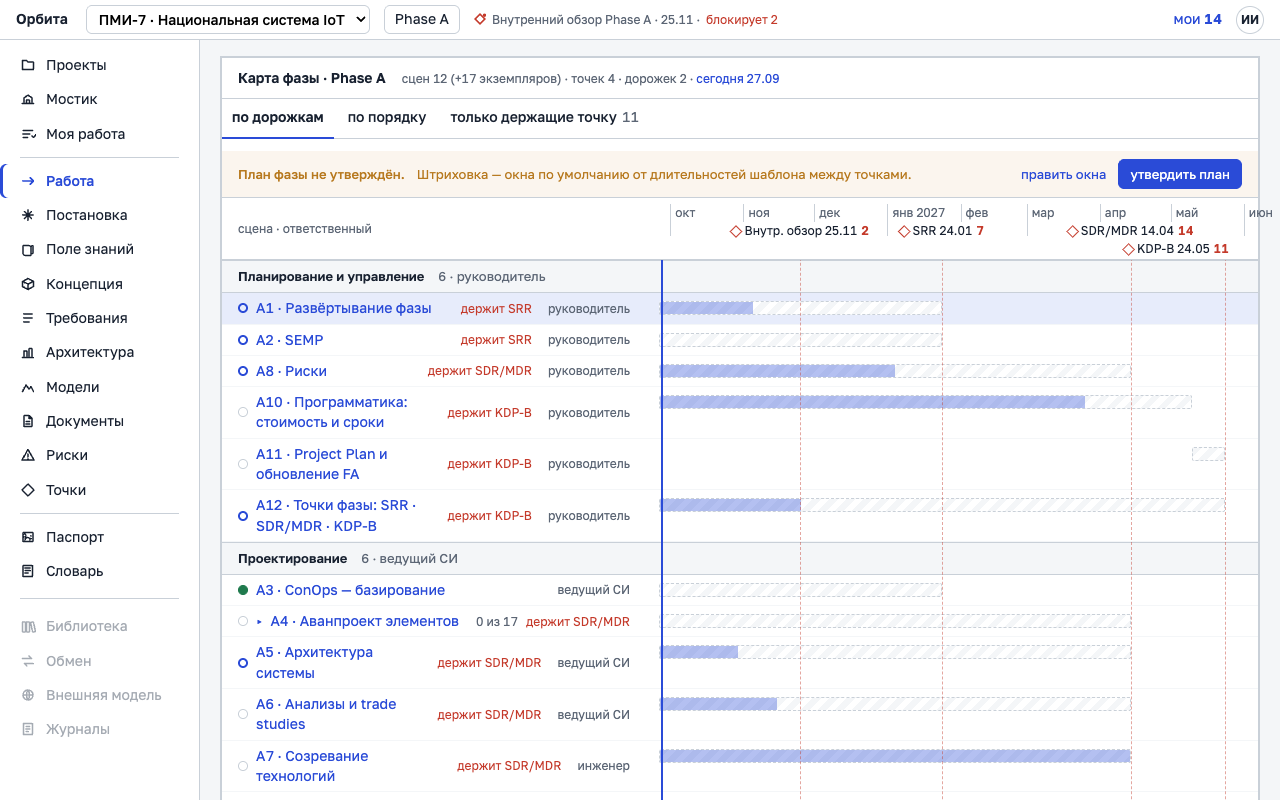
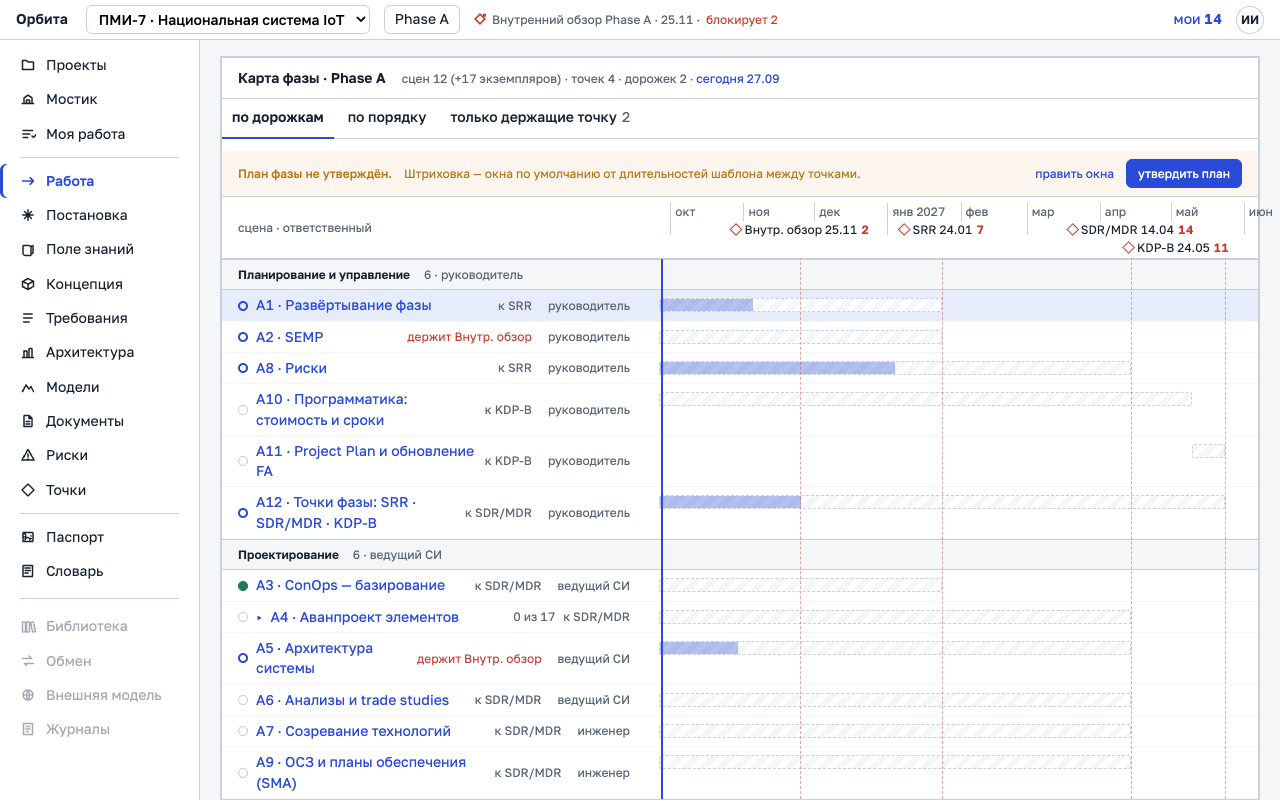
Карта фазы, три правки до выката: прогресс только у начатой, красное «держит» — ближайшая точка, легенда как полосы
- Заливка полосы — доля условий выхода, и только у начатой сцены: у
  закрытой (вход не выполнен) заливки нет — A7 и A10 заливались почти
  целиком при пустом кружке.
- «держит» красным — только у сцен, что держат ближайшую непройденную
  точку; у остальных серым «к SRR / к SDR/MDR». Сцену держит и условие,
  читающее её выход: критерий точки несёт source_scene шаблона (вид фазы
  отдаёт его), «SEMP начат» держит A2, «системные требования есть» — A5.
  Вид «только держащие точку» — сцены ближайшей точки.
- Образцы легенды — классами полос: окно с заливкой прогресса,
  штриховка, янтарь (просрочка — янтарной рамкой и заливкой).

Снимки приёмки пересняты (копия стенда 27.09).

diff --git a/web/src/v2/phasemap.tsx b/web/src/v2/phasemap.tsx
@@ -89,7 +89,8 @@ export function КартаФазы({ project, phase, onScene, onPoint, onEditPla
   // Сцены шаблона: экземпляры аванпроекта — одна сцена «A4», их число — отдельно.
   const сценШаблона = new Set(phase.scenes.map((с) => с.instance_of ?? с.key)).size
   const безОкна = phase.scenes.filter((с) => !с.window).length
-  const держащие = строки.filter((с) => с.держит.length > 0)
+  // «Только держащие точку» — сцены, без которых не пройти БЛИЖАЙШУЮ точку (правка 27.09).
+  const держащие = строки.filter((с) => с.ближнюю)
   const можноУтвердить = phase.scenes.some((с) => с.default_window)
 
   const утвердить = () => {
@@ -148,7 +149,10 @@ export function КартаФазы({ project, phase, onScene, onPoint, onEditPla
               {с.title}
             </button>
             {с.счёт && <span className="v2-gantt__cnt">{с.счёт}</span>}
-            {с.держит.length > 0 && <span className="v2-gantt__blk">держит {с.держит.join(', ')}</span>}
+            {/* Красным — только то, что держит ближайшую точку; прочее — серым «к SDR/MDR». */}
+            {с.ближнюю
+              ? <span className="v2-gantt__blk">держит {с.держит[0]}</span>
+              : с.держит.length > 0 && <span className="v2-gantt__to">к {с.держит[0]}</span>}
             {с.кто && <span className="v2-gantt__who">{с.кто}</span>}
           </div>
           <div className="v2-gantt__t">{полоса(с)}</div>
@@ -170,7 +174,7 @@ export function КартаФазы({ project, phase, onScene, onPoint, onEditPla
       <Вкладки<Вид> label="вид карты фазы" current={вид} onChange={setВид} items={[
         { key: 'дорожки', word: 'по дорожкам', hint: 'сцены полосами дорожек: проектирование, планирование и управление' },
         { key: 'порядок', word: 'по порядку', hint: 'сцены в порядке шаблона фазы' },
-        { key: 'держащие', word: 'только держащие точку', count: держащие.length, hint: 'сцены, без которых не пройти ближайшие точки' },
+        { key: 'держащие', word: 'только держащие точку', count: держащие.length, hint: 'сцены, без которых не пройти ближайшую точку' },
       ]} />
       {безОкна > 0 && (
         <div className="v2-gantt__plan" data-why="следующий-клик">
@@ -214,7 +218,7 @@ export function КартаФазы({ project, phase, onScene, onPoint, onEditPla
             </Fragment>
           ))
           : (вид === 'порядок' ? строки : держащие).map((с) => строка(с))}
-        {вид === 'держащие' && держащие.length === 0 && <div className="v2-empty">Сцен, что держат непройденные точки, нет.</div>}
+        {вид === 'держащие' && держащие.length === 0 && <div className="v2-empty">Сцен, что держат ближайшую точку, нет.</div>}
         <div className="v2-gantt__over" aria-hidden="true">
           {точки.map((т) => (
             <div key={т.key} className={`v2-gantt__vline${!т.passed && т.blocking.length > 0 ? ' v2-gantt__vline--blk' : ''}`}
@@ -228,9 +232,10 @@ export function КартаФазы({ project, phase, onScene, onPoint, onEditPla
         <span><i className="v2-gantt__c v2-gantt__c--cur" /> идёт</span>
         <span><i className="v2-gantt__c v2-gantt__c--debt" /> есть долг</span>
         <span><i className="v2-gantt__c v2-gantt__c--idle" /> не начата</span>
-        <span><span className="v2-gantt__swatch" /> окно плана</span>
+        {/* Образцы — те же классы, что у полос: заливка прогресса, штриховка, янтарь. */}
+        <span><span className="v2-gantt__swatch"><span className="v2-gantt__p" style={{ width: '45%' }} /></span> окно плана · заливка — прогресс</span>
         <span><span className="v2-gantt__swatch v2-gantt__bar--draft" /> окно по умолчанию</span>
-        <span><span className="v2-gantt__swatch v2-gantt__bar--late" /> просрочено</span>
+        <span><span className="v2-gantt__swatch v2-gantt__bar--late"><span className="v2-gantt__p" style={{ width: '45%' }} /></span> просрочено</span>
         <span className="v2-gantt__legend-blk">◆ 7 — держит точку: столько условий не выполнено</span>
       </div>
     </div>

diff --git a/web/src/v2/phasemap.data.ts b/web/src/v2/phasemap.data.ts
@@ -15,8 +15,10 @@ export interface Строка {
   title: string
   state: Состояние
   кто: string
-  /** Короткие имена непройденных точек, которые сцена держит. */
+  /** Короткие имена непройденных точек, которые сцена держит, — по порядку дат. */
   держит: string[]
+  /** Держит ближайшую непройденную точку — красным «держит»; иначе серым «к …». */
+  ближнюю: boolean
   окно: ОкноСтроки | null
   /** Доля выполненных блокирующих условий выхода, 0…1. */
   прогресс: number
@@ -47,14 +49,35 @@ export function короткоеИмя(точка: Pick<Gate, 'key' | 'title'>):
   return голова || точка.key
 }
 
-/** Непройденные точки, чьи критерии ждут эту сцену («сцена прожита») невыполненными. */
+/** Точки по порядку дат: без даты — в конце, в порядке шаблона. */
+function поДатам(точки: Gate[]): Gate[] {
+  return [...точки].sort((а, б) => (а.planned_date ?? '9999').localeCompare(б.planned_date ?? '9999') || а.order - б.order)
+}
+
+/** Ближайшая непройденная точка фазы — та, что держат красным. */
+export function ближайшая(точки: Gate[]): Gate | null {
+  return поДатам(точки).find((т) => !т.passed) ?? null
+}
+
+/**
+ * Непройденные точки, которые сцена держит, — по порядку дат: невыполненный
+ * критерий точки ждёт «сцена прожита» либо читает выход этой сцены
+ * (`source_scene` шаблона: «SEMP начат» — A2, «системные требования есть» — A5).
+ */
 export function держит(ключ: string, точки: Gate[]): string[] {
-  return точки
-    .filter((т) => !т.passed && т.criteria.some((у) => у.check === `scene_done:${ключ}` && !у.passed))
+  return поДатам(точки)
+    .filter((т) => !т.passed && т.criteria.some((у) => !у.passed && у.blocking !== false
+      && (у.check === `scene_done:${ключ}` || у.source_scene === ключ)))
     .map(короткоеИмя)
 }
 
+/**
+ * Прогресс сцены — по её условиям выхода, и только у начатой: у закрытой
+ * (вход не выполнен) заливки нет, даже если данные для выхода уже лежат в
+ * проекте (A7 и A10 заливались почти целиком при пустом кружке — правка 27.09).
+ */
 function доля(сцена: Scene): number {
+  if (сцена.state === 'locked') return 0
   const условия = сцена.exit.filter((у) => у.blocking !== false)
   if (условия.length === 0) return сцена.state === 'done' ? 1 : 0
   return условия.filter((у) => у.passed).length / условия.length
@@ -86,12 +109,14 @@ export function строкиКарты(
     if (сцена.window) return { ...сцена.window, поУмолчанию: false }
     return сцена.default_window ? { ...сцена.default_window, поУмолчанию: true } : null
   }
+  const первая = ближайшая(фаза.gates)
   const строка = (сцена: Scene, заголовок: string): Строка => {
     const о = окно(сцена)
     const просрочено = Boolean(о && сцена.state !== 'done' && о.end < сегодня)
+    const точки = держит(сцена.instance_of ?? сцена.key, фаза.gates)
     return {
       key: сцена.key, title: заголовок, state: состояние(сцена, просрочено), кто: ответственный(сцена),
-      держит: держит(сцена.instance_of ?? сцена.key, фаза.gates), окно: о, прогресс: доля(сцена),
+      держит: точки, ближнюю: Boolean(первая && точки.includes(короткоеИмя(первая))), окно: о, прогресс: доля(сцена),
       просрочено, экземпляры: [], track: сцена.track ?? 'design', role: сцена.role,
     }
   }

diff --git a/web/src/v2/phasemap.test.ts b/web/src/v2/phasemap.test.ts
@@ -65,8 +65,29 @@ describe('данные карты фазы', () => {
     expect(строки.find((с) => с.key === 'A5')!.окно).toEqual({ start: '2026-10-01', end: '2027-01-10', поУмолчанию: true })
   })
 
-  it('прогресс — доля выполненных блокирующих условий выхода', () => {
+  it('прогресс — доля выполненных блокирующих условий выхода; у не начатой заливки нет', () => {
     expect(строки.find((с) => с.key === 'A5')!.прогресс).toBe(0.5)
+    const закрытая = строкиКарты({ ...фаза, scenes: [сцена('A7', { state: 'locked', exit: [условие('a', true), условие('b', true)] })] }, () => '', '2026-09-27')
+    expect(закрытая[0].прогресс).toBe(0)
+    expect(закрытая[0].state).toBe('idle')
+  })
+
+  it('условие точки с источником-сценой (source_scene) — сцена держит точку', () => {
+    const точки = [точка('internal_review_a', 'Внутренний обзор Phase A', '2026-11-25', {
+      criteria: [{ ...условие('document_started:semp', false), source_scene: 'A2' }, { ...условие('system_requirements_min:1', true), source_scene: 'A5' }],
+    })]
+    expect(держит('A2', точки)).toEqual(['Внутр. обзор'])
+    expect(держит('A5', точки)).toEqual([])
+  })
+
+  it('«держит» красным — только ближайшую точку; к более поздней — серым «к …»', () => {
+    // ближайшая непройденная по датам — SRR (внутренний обзор пройден)
+    expect(строки.find((с) => с.key === 'A5')!.ближнюю).toBe(true)
+    const а4 = строки.find((с) => с.key === 'A4')!
+    expect(а4.держит).toEqual(['SDR/MDR'])
+    expect(а4.ближнюю).toBe(false)
+    expect(карта).toContain('<span className="v2-gantt__to">к {с.держит[0]}</span>')
+    expect(карта).toContain('const держащие = строки.filter((с) => с.ближнюю)')
   })
 
   it('полосы дорожек со словом роли; точки — коротким именем', () => {
@@ -102,6 +123,12 @@ describe('экран карты фазы', () => {
     // окна по умолчанию приходят в самом виде фазы — второго тяжёлого вызова нет
     expect(карта).toContain('const д = с.default_window')
     expect(карта).not.toContain('api.planDefaults(')
+  })
+
+  it('образцы легенды — классами полос: заливка прогресса, штриховка, янтарь', () => {
+    expect(карта).toContain('<span className="v2-gantt__swatch"><span className="v2-gantt__p"')
+    expect(карта).toContain('<span className="v2-gantt__swatch v2-gantt__bar--draft" />')
+    expect(карта).toContain('<span className="v2-gantt__swatch v2-gantt__bar--late"><span className="v2-gantt__p"')
   })
 
   it('ромб точки ведёт в её карточку; клик по строке — сцена; мероприятий на карте нет', () => {

diff --git a/web/src/v2/phasemap.css b/web/src/v2/phasemap.css
@@ -19,6 +19,8 @@
 .v2-gantt__title { flex: 1 1 150px; min-width: 0; text-align: left; color: var(--ink); line-height: 1.3; }
 .v2-gantt__cnt { color: var(--muted); font-size: var(--size-s); white-space: nowrap; }
 .v2-gantt__blk { color: var(--red); font-size: var(--size-s); white-space: nowrap; }
+/* Сцена ведёт к более поздней точке — серым, без тревоги. */
+.v2-gantt__to { color: var(--muted); font-size: var(--size-s); white-space: nowrap; }
 .v2-gantt__who { margin-left: auto; font-size: var(--size-s); color: var(--muted); padding-left: 8px; white-space: nowrap; }
 .v2-gantt__fold { padding: 0 2px; }
 .v2-gantt__row--sub .v2-gantt__n { padding-left: 40px; font-size: var(--size-s); }
@@ -49,7 +51,8 @@
 
 .v2-gantt__bar { position: absolute; top: 8px; height: 14px; border-radius: 2px; background: var(--accent-soft); border: 1px solid var(--cobalt); overflow: hidden; }
 .v2-gantt__bar--done { background: var(--v2-done); border-color: var(--green); }
-.v2-gantt__bar--late { background: var(--v2-gate); border-color: var(--amber); }
+.v2-gantt__bar--late { background: var(--v2-gate); border: 1.5px solid var(--amber); }
+.v2-gantt__bar--late .v2-gantt__p { background: var(--amber); }
 .v2-gantt__bar--draft { background: repeating-linear-gradient(135deg, var(--paper) 0 6px, var(--surface) 6px 12px); border: 1px dashed var(--graphite); }
 .v2-gantt__p { position: absolute; left: 0; top: 0; bottom: 0; background: var(--cobalt); opacity: .35; }
 
@@ -59,8 +62,8 @@
 .v2-gantt__today { position: absolute; top: 0; bottom: 0; border-left: 2px solid var(--cobalt); }
 
 .v2-gantt__legend { display: flex; gap: 20px; flex-wrap: wrap; padding: 10px 16px; font-size: var(--size-s); color: var(--muted); border-top: 1px solid var(--graphite); }
-.v2-gantt__swatch { display: inline-block; width: 26px; height: 12px; vertical-align: -2px; border-radius: 2px; background: var(--accent-soft); border: 1px solid var(--cobalt); }
+.v2-gantt__swatch { position: relative; overflow: hidden; display: inline-block; width: 26px; height: 12px; vertical-align: -2px; border-radius: 2px; background: var(--accent-soft); border: 1px solid var(--cobalt); }
 /* Образцы легенды — теми же заливками, что полосы (иначе правило образца их перебивало). */
 .v2-gantt__swatch.v2-gantt__bar--draft { background: repeating-linear-gradient(135deg, var(--paper) 0 6px, var(--surface) 6px 12px); border: 1px dashed var(--graphite); }
-.v2-gantt__swatch.v2-gantt__bar--late { background: var(--v2-gate); border-color: var(--amber); }
+.v2-gantt__swatch.v2-gantt__bar--late { background: var(--v2-gate); border: 1.5px solid var(--amber); }
 .v2-gantt__legend-blk { color: var(--red); }

diff --git a/core/v2/api/src/test/kotlin/orbita/api/PhaseATest.kt b/core/v2/api/src/test/kotlin/orbita/api/PhaseATest.kt
@@ -138,6 +138,10 @@ class PhaseATest {
         val a1 = вид.first { it.path("key").asText() == "A1" }
         assertEquals(окна.getValue("A1").first, a1.path("default_window").path("start").asText())
         assertTrue(a1.path("window").isMissingNode, "окна плана нет — только по умолчанию")
+        // Критерий точки несёт сцену-источник: карта красит «держит» по ней (SEMP начат — A2).
+        val обзор = router().handle("GET", "/v2/phase", п, null)!!.body.path("gates").first { it.path("key").asText() == "internal_review_a" }
+        val semp = обзор.path("criteria").first { it.path("check").asText() == "document_started:semp" }
+        assertEquals("A2", semp.path("source_scene").asText())
     }
 
     @Test

diff --git a/core/v2/process/src/main/kotlin/orbita/process/internal/TemplateProcessEngine.kt b/core/v2/process/src/main/kotlin/orbita/process/internal/TemplateProcessEngine.kt
@@ -257,6 +257,7 @@ class TemplateProcessEngine(
                     у.path("title").asText(у.path("check").asText()),
                     у.path("check").asText(), причина == null, причина,
                     blocking = у.path("blocking").asBoolean(true),
+                    sourceScene = у.path("source_scene").asText("").ifBlank { null },
                 )
             }
             val экспертиза = точка.path("expertise").takeIf { it.isObject }?.let { э ->

diff --git a/web/src/v2/api.ts b/web/src/v2/api.ts
@@ -11,6 +11,8 @@ export interface Condition {
   why: string | null
   /** Блокирующее держит точку; остальное — помета. */
   blocking?: boolean
+  /** У критерия точки — сцена, чей выход он читает (`source_scene` шаблона): её точка и «держит». */
+  source_scene?: string
 }
 
 /** Выход мероприятия: артефакт со счётчиком из данных. */

diff --git a/core/v2/process/src/main/kotlin/orbita/process/api/Ports.kt b/core/v2/process/src/main/kotlin/orbita/process/api/Ports.kt
@@ -32,6 +32,8 @@ data class ConditionView(
     val why: String?,
     /** Блокирующее условие держит точку; остальные — помета. */
     val blocking: Boolean = true,
+    /** Сцена, которая даёт условию точки выход (`source_scene` шаблона): её и «держит» точка. */
+    val sourceScene: String? = null,
 )
 
 data class SceneView(

diff --git a/core/v2/api/src/main/kotlin/orbita/api/internal/PhaseJson.kt b/core/v2/api/src/main/kotlin/orbita/api/internal/PhaseJson.kt
@@ -107,6 +107,7 @@ internal object PhaseJson {
                 .put("title", у.title).put("check", у.check)
                 .put("passed", у.passed).put("why", у.why)
                 .put("blocking", у.blocking)
+                .also { о -> у.sourceScene?.let { о.put("source_scene", it) } }
         }
     }
 
